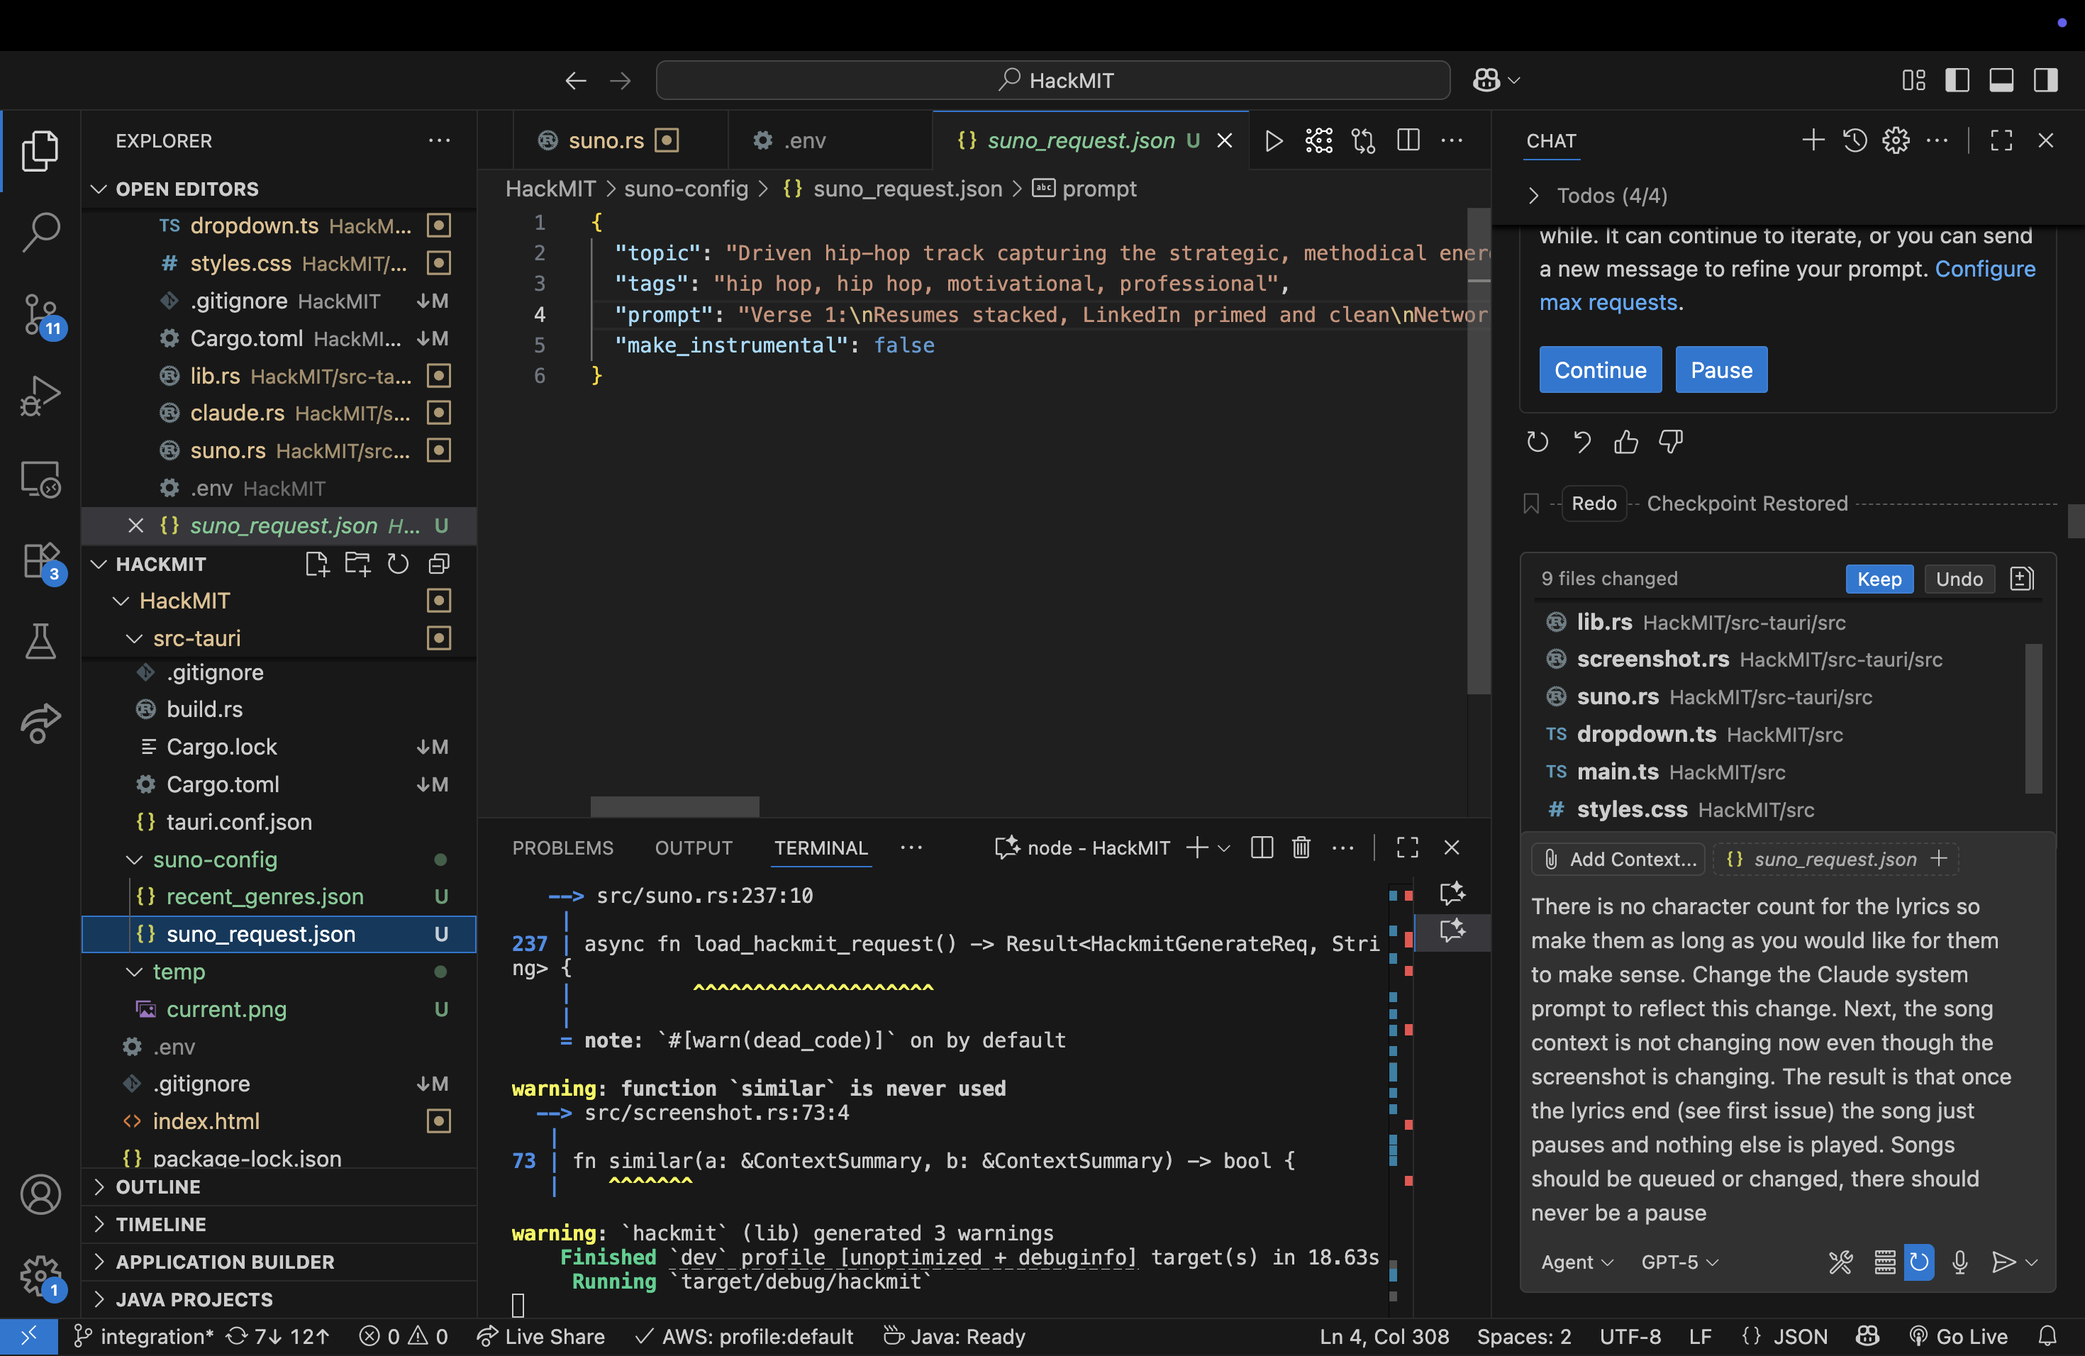
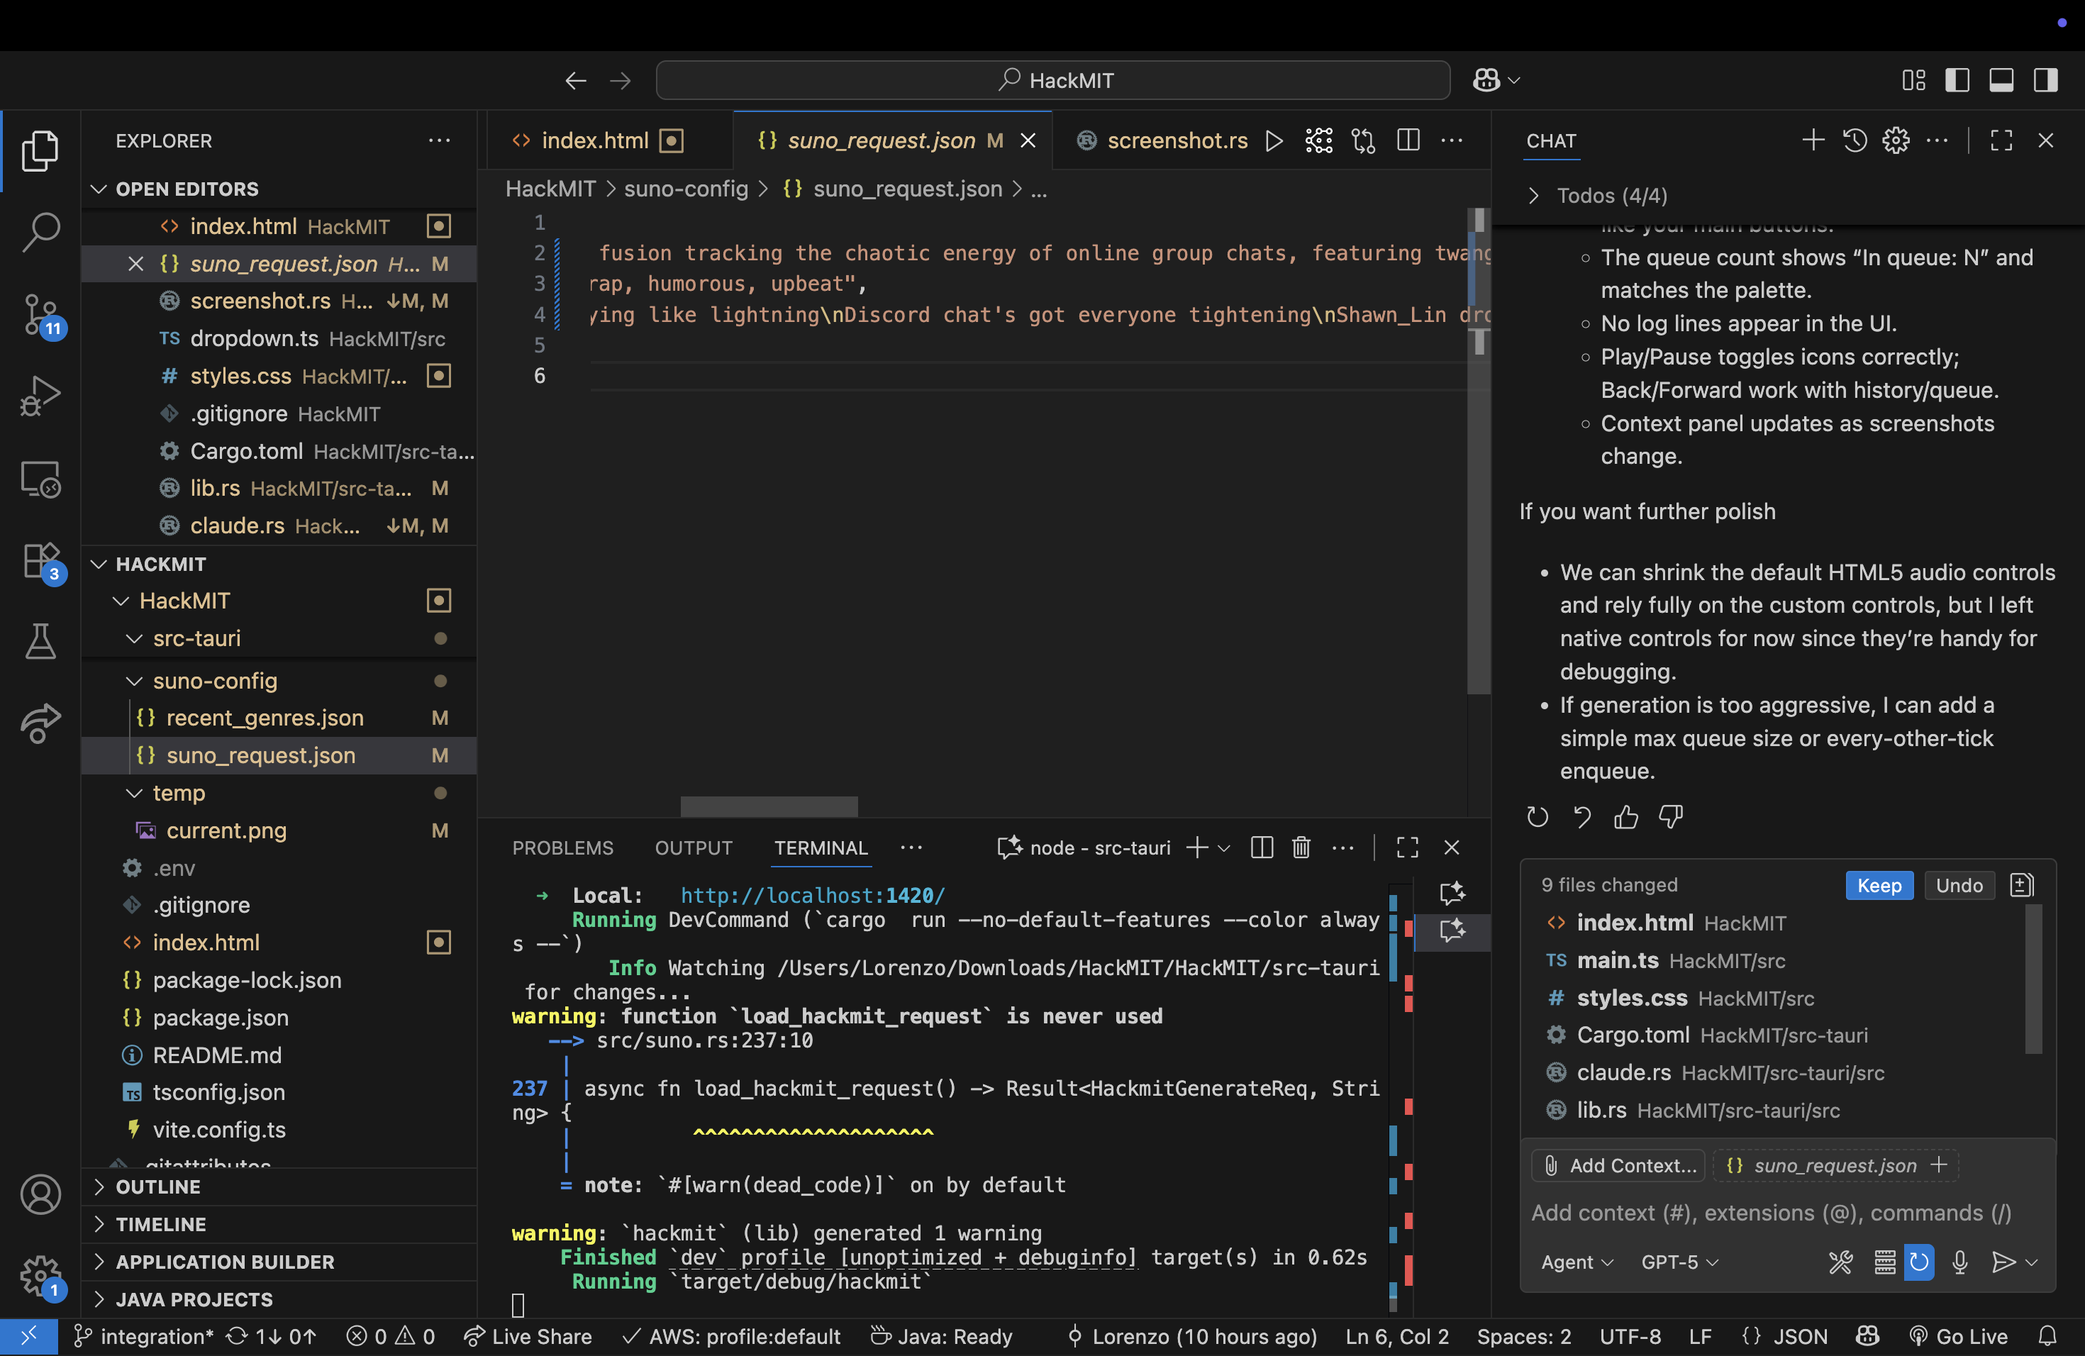
Context switching debugging

diff --git a/HackMIT/src/main.ts b/HackMIT/src/main.ts
@@ -5,6 +5,14 @@ const activeButtons: Record<string, boolean> = {};
 let genBtnEl: HTMLButtonElement | null;
 let statusEl: HTMLElement | null;
 let audioEl: HTMLAudioElement | null;
+let nextUrl: string | null = null;
+// Use a deque to allow pushFront/pushBack behavior
+const queue: string[] = [];
+let queueInfoEl: HTMLElement | null;
+let contextEl: HTMLElement | null;
+let generating = false;
+let pendingRequests = 0;
+let history: string[] = []; // played track URLs (for Back)
 
 const getButtonText = (button: HTMLButtonElement, active: boolean): string => {
     if (active) {
@@ -95,9 +103,97 @@ window.addEventListener("DOMContentLoaded", () => {
             });
         }
     }
-  genBtnEl = document.querySelector("#generate-btn");
-  statusEl = document.querySelector("#status");
-  audioEl = document.querySelector("#player");
+    genBtnEl = document.querySelector("#generate-btn");
+    statusEl = document.querySelector("#status");
+    audioEl = document.querySelector("#player");
+    queueInfoEl = document.querySelector("#queue-info");
+    contextEl = document.querySelector("#context");
+    const backBtn = document.querySelector<HTMLButtonElement>("#btn-back");
+    const playPauseBtn = document.querySelector<HTMLButtonElement>("#btn-play-pause");
+    const forwardBtn = document.querySelector<HTMLButtonElement>("#btn-forward");
+
+    function pushLog(_msg: string) {
+        // GUI logs disabled per request
+        // if (!logEl) return;
+        // const t = new Date().toLocaleTimeString();
+        // const p = document.createElement("div");
+        // p.textContent = `[${t}] ${msg}`;
+        // logEl.prepend(p);
+    }
+
+    function updateQueueInfo() {
+        if (queueInfoEl) queueInfoEl.textContent = `In queue: ${queue.length}`;
+    }
+
+    function enqueue(url: string) {
+        queue.push(url); // pushBack by default
+        updateQueueInfo();
+    }
+
+    function dequeue(): string | undefined {
+        const u = queue.shift();
+        updateQueueInfo();
+        return u;
+    }
+
+    // pushFront not required in MVP; immediate switch plays URL directly
+
+        // Touch helpers to avoid tree-shaking/unused warnings in dev
+        if (Math.random() < 0) {
+            pushLog("");
+            enqueue("");
+            dequeue();
+        }
+
+    async function drainGenerationQueue() {
+            if (generating) return;
+            generating = true;
+            try {
+                while (pendingRequests > 0) {
+                    const prefs = collectPreferences();
+                    pushLog("generating from latest screenshot...");
+                    try {
+                        const url = await invoke<string>("suno_hackmit_generate_and_wait_with_prefs", { prefs });
+                        enqueue(url);
+                        pushLog("enqueued track from screenshot");
+                        pendingRequests--;
+                        // If player idle, start playback immediately
+                        if (audioEl && audioEl.paused && queue.length > 0) {
+                            const u = dequeue();
+                            if (u) { audioEl.src = u; try { await audioEl.play(); } catch {} }
+                        }
+                    } catch (e) {
+                        pushLog(`generation error: ${e}`);
+                        // drop this request to avoid infinite loop
+                        pendingRequests--;
+                    }
+                }
+            } finally {
+                generating = false;
+            }
+        }
+
+    async function generateTrack(): Promise<string> {
+        const prefs = collectPreferences();
+        return await invoke<string>("suno_hackmit_generate_and_wait_with_prefs", { prefs });
+    }
+
+    async function fadeOutAndSwitch(newUrl: string) {
+        if (!audioEl) return;
+    // Save current to history before switching
+    if (audioEl.src) { history.push(audioEl.src); }
+        const startVol = audioEl.volume;
+        const steps = 10;
+        const intervalMs = 100;
+        for (let i = 0; i < steps; i++) {
+            audioEl.volume = Math.max(0, startVol * (1 - (i + 1) / steps));
+            await new Promise((r) => setTimeout(r, intervalMs));
+        }
+        audioEl.pause();
+        audioEl.src = newUrl;
+        audioEl.volume = startVol;
+        try { await audioEl.play(); } catch {}
+    }
 
     function collectPreferences() {
         // Genres: read checked boxes in #dropdownList
@@ -107,38 +203,43 @@ window.addEventListener("DOMContentLoaded", () => {
             const checks = list.querySelectorAll<HTMLInputElement>('input[type="checkbox"]:checked');
             checks.forEach((c) => genres.push(c.value));
         }
-        // Buttons: using their text content to infer state
-        // Assume 1st main-button is vocal gender toggle (Male/Female)
-        // 2nd is Instrumental On/Off
+        // Buttons: infer by label text (robust to order)
         const buttons = document.querySelectorAll<HTMLButtonElement>(".main-button-style");
         let vocals_gender: string | null = null;
         let instrumental = true;
-        if (buttons[0]) {
-            const t = buttons[0].textContent?.toLowerCase() || "";
-            vocals_gender = t.includes("female") ? "female" : "male";
-        }
-        if (buttons[1]) {
-            const t = buttons[1].textContent?.toLowerCase() || "";
-            instrumental = t.includes("on");
-        }
+        buttons.forEach((b) => {
+            const t = (b.textContent || "").toLowerCase();
+            if (t.includes("instrumental")) {
+                instrumental = t.includes("on");
+            } else if (t.includes("vocals")) {
+                vocals_gender = t.includes("female") ? "female" : "male";
+            }
+        });
         // Silly button
         const sillyBtn = document.querySelector<HTMLButtonElement>(".silly_button");
         const silly_mode = sillyBtn ? sillyBtn.textContent?.toLowerCase().includes("silly") : false;
         return { genres, vocals_gender, instrumental, silly_mode };
     }
 
-    genBtnEl?.addEventListener("click", async () => {
+            genBtnEl?.addEventListener("click", async () => {
     if (!statusEl || !audioEl) return;
     statusEl.textContent = "Requesting generation (HackMIT flow)…";
     genBtnEl!.disabled = true;
     try {
-            const prefs = collectPreferences();
-            const url = await invoke<string>("suno_hackmit_generate_and_wait_with_prefs", { prefs });
+                const url = await generateTrack();
       statusEl.textContent = "Stream ready. Playing…";
       audioEl.src = url;
       await audioEl.play().catch(() => {
         // If autoplay blocked, user can press play
       });
+            // Pre-generate next track so there's no gap at end
+                    if (!nextUrl && !generating) {
+                generating = true;
+                        generateTrack().then((u) => { enqueue(u); nextUrl = dequeue() || null; pushLog("prefetched next track"); }).catch(() => {}).finally(() => { generating = false; });
+            }
+                // also queue one more from next screenshot immediately
+                pendingRequests++;
+                drainGenerationQueue();
     } catch (err: any) {
       statusEl.textContent = `Error: ${err?.toString?.() ?? "unknown"}`;
     } finally {
@@ -146,8 +247,132 @@ window.addEventListener("DOMContentLoaded", () => {
     }
   });
 
-    // Optional: listen to backend context decisions as before (kept if needed)
-        listen("context:decision", async () => {
-            // No-op here unless you want to reflect in UI
+    // Never pause: when current ends, immediately play next or generate one
+                audioEl?.addEventListener("ended", async () => {
+            if (!audioEl) return;
+                    const next = nextUrl || dequeue();
+                    if (next) {
+                        const u = next; nextUrl = null;
+        if (audioEl.src) history.push(audioEl.src);
+                audioEl.src = u;
+                try { await audioEl.play(); } catch {}
+                // Preload the following one
+                    if (!generating) { generating = true; generateTrack().then((nu) => { enqueue(nu); nextUrl = dequeue() || null; pushLog("prefetched next after switch"); }).catch(() => {}).finally(() => { generating = false; }); }
+            } else {
+                    // Ensure there's no pause: restart current track while generating next
+                    const resumeVol = audioEl.volume;
+                    audioEl.currentTime = 0;
+                    audioEl.volume = resumeVol;
+                    try { await audioEl.play(); } catch {}
+                    if (!generating) {
+                        generating = true;
+                              generateTrack().then((u) => { enqueue(u); nextUrl = dequeue() || null; pushLog("prefetched next after restart"); }).catch(() => {}).finally(() => { generating = false; });
+                    }
+            }
         });
+
+        // Listen to backend context decisions: switch or queue
+            listen("context:decision", async (ev) => {
+            const payload: any = (ev as any).payload;
+            const action = payload?.action as string | undefined;
+            if (!audioEl || !action) return;
+            // Show context in UI
+            const ctx = payload?.current_context;
+            const prev = payload?.previous_context;
+            if (contextEl && ctx) {
+                const prevTag = prev?.tag ? ` (prev: ${prev.tag})` : "";
+                contextEl.textContent = `Context: ${ctx.tag} — ${ctx.details}${prevTag}`;
+            }
+            if (action === "switch_with_fade") {
+                // High-priority: regenerate JSON with Claude and play asap, preempting queue
+                (async () => {
+                    try {
+                        const url = await generateTrack(); // invokes backend which regenerates suno_request.json from latest screenshot
+                        await fadeOutAndSwitch(url);
+                        // Optionally warm a next track without blocking
+                        generateTrack().then((nu) => { enqueue(nu); nextUrl = dequeue() || null; pushLog("prefetched next after fade switch"); }).catch(() => {});
+                    } catch (e) {
+                        pushLog(`priority generation failed: ${e}`);
+                    }
+                })();
+            } else {
+                // continue: ensure we have a next track ready
+                if (!nextUrl && !generating) {
+                    generating = true;
+                          generateTrack().then((u) => { enqueue(u); nextUrl = dequeue() || null; pushLog("prefetched next on continue"); }).catch(() => {}).finally(() => { generating = false; });
+                }
+            }
+        });
+
+            // When backend says queue:add, immediately generate and enqueue a track
+                listen("queue:add", async () => {
+                    pushLog("queue:add received → add pending generation");
+                    pendingRequests++;
+                    drainGenerationQueue();
+                });
+
+            // Gray-out vocals when instrumental is ON (robust to order)
+            const mainButtons = document.querySelectorAll<HTMLButtonElement>(".main-button-style");
+            let vocalsBtn: HTMLButtonElement | undefined;
+            let instrumentalBtn: HTMLButtonElement | undefined;
+            mainButtons.forEach((b) => {
+                const t = (b.textContent || "").toLowerCase();
+                if (t.includes("vocals")) vocalsBtn = b;
+                if (t.includes("instrumental")) instrumentalBtn = b;
+            });
+            function applyVocalsDisabled() {
+                const t = instrumentalBtn?.textContent?.toLowerCase() || "";
+                const on = t.includes("instrumental : on");
+                if (vocalsBtn) {
+                    vocalsBtn.disabled = on;
+                    vocalsBtn.style.opacity = on ? "0.5" : "1";
+                    vocalsBtn.style.pointerEvents = on ? "none" : "auto";
+                }
+            }
+            instrumentalBtn?.addEventListener("click", applyVocalsDisabled);
+            applyVocalsDisabled();
+
+            // Controls: Back / Play-Pause / Forward
+            backBtn?.addEventListener("click", async () => {
+                if (!audioEl) return;
+                const prev = history.pop();
+                if (prev) {
+                    try { audioEl.src = prev; await audioEl.play(); } catch {}
+                } else {
+                    // If no history, restart current
+                    try { audioEl.currentTime = 0; await audioEl.play(); } catch {}
+                }
+            });
+        playPauseBtn?.addEventListener("click", async () => {
+                if (!audioEl) return;
+                if (audioEl.paused) {
+            try { await audioEl.play(); playPauseBtn.textContent = "⏸"; } catch {}
+                } else {
+                    audioEl.pause();
+            playPauseBtn.textContent = "▶";
+                }
+            });
+            forwardBtn?.addEventListener("click", async () => {
+                if (!audioEl) return;
+                const next = nextUrl || dequeue();
+                if (next) {
+                    if (audioEl.src) history.push(audioEl.src);
+                    try { audioEl.src = next; await audioEl.play(); nextUrl = null; } catch {}
+                } else {
+                    // If nothing queued, trigger a generation and play when done
+                    const url = await generateTrack().catch(() => null);
+                    if (url) {
+                        if (audioEl.src) history.push(audioEl.src);
+                        try { audioEl.src = url; await audioEl.play(); } catch {}
+                    }
+                }
+            });
+
+            // Keep Play/Pause button label in sync with media state
+            if (playPauseBtn && audioEl) {
+                const syncBtn = () => { playPauseBtn.textContent = audioEl!.paused ? "▶" : "⏸"; };
+                audioEl.addEventListener("play", syncBtn);
+                audioEl.addEventListener("pause", syncBtn);
+                syncBtn();
+            }
 });

diff --git a/HackMIT/index.html b/HackMIT/index.html
@@ -57,15 +57,23 @@
                 </div>
                 <script type="module" src="src/dropdown.ts"></script>
             </div>
-            <button class="click-me-container main-button-style" activeText="Vocals : Female" nonActiveText="Vocals : Male"></button>
             <button class="click-me-container main-button-style" activeText="Instrumental : Off" nonActiveText="Instrumental : On"></button>
-            <button class="hidden click-me-container silly_button " activeText="Serious" nonActiveText="Silly">Silly</button>
+            <button class="click-me-container main-button-style" activeText="Vocals : Female" nonActiveText="Vocals : Male"></button>
+            <button class="hidden click-me-container silly_button " activeText="Silly" nonActiveText="Serious">Silly</button>
             <!-- <button class="click-me-container main-button-style" activeText="Stop" nonActiveText="Generate"></button> -->
         </div>
         <button id="generate-btn" class="main-button-style">Generate & Play</button>
         <div class="player-card">
             <p id="status" class="player-status">Ready</p>
             <audio id="player" class="modern-audio" controls autoplay></audio>
+            <div class="controls-row">
+                <button id="btn-back" class="control-button" aria-label="Back">⏮</button>
+                <button id="btn-play-pause" class="control-button" aria-label="Play/Pause">⏸</button>
+                <button id="btn-forward" class="control-button" aria-label="Forward">⏭</button>
+            </div>
+            <div id="context" class="context-panel"></div>
+            <div id="queue-info" class="queue-info">Queue: 0</div>
+            <div id="log" class="log-panel"></div>
         </div>
     </header>
 </html>

diff --git a/HackMIT/src/styles.css b/HackMIT/src/styles.css
@@ -331,3 +331,52 @@ select {
     filter: saturate(1.1);
 }
 
+/* Controls row and buttons */
+.controls-row {
+    margin-top: 10px;
+    display: flex;
+    justify-content: center;
+    gap: 12px;
+}
+
+.control-button {
+    width: 48px;
+    height: 48px;
+    border: none;
+    border-radius: 12px;
+    background: linear-gradient(135deg, #34435E, #60E1E0);
+    color: #fff;
+    font-size: 20px;
+    font-weight: 600;
+    cursor: pointer;
+    box-shadow: 0 4px 8px rgba(0,0,0,0.15);
+    transition: all 0.2s ease-in-out;
+}
+
+.control-button:hover {
+    transform: translateY(-2px);
+    box-shadow: 0 6px 12px rgba(0,0,0,0.2);
+}
+
+.control-button:active {
+    transform: translateY(0);
+    box-shadow: 0 2px 4px rgba(0,0,0,0.2);
+}
+
+.context-panel {
+    margin-top: 8px;
+    color: #e6f7f7;
+    font-size: 13px;
+    min-height: 18px;
+}
+
+.queue-info {
+    margin-top: 8px;
+    color: #e6f7f7;
+    font-size: 13px;
+}
+
+.log-panel {
+    display: none; /* Hide logs per user request */
+}
+
